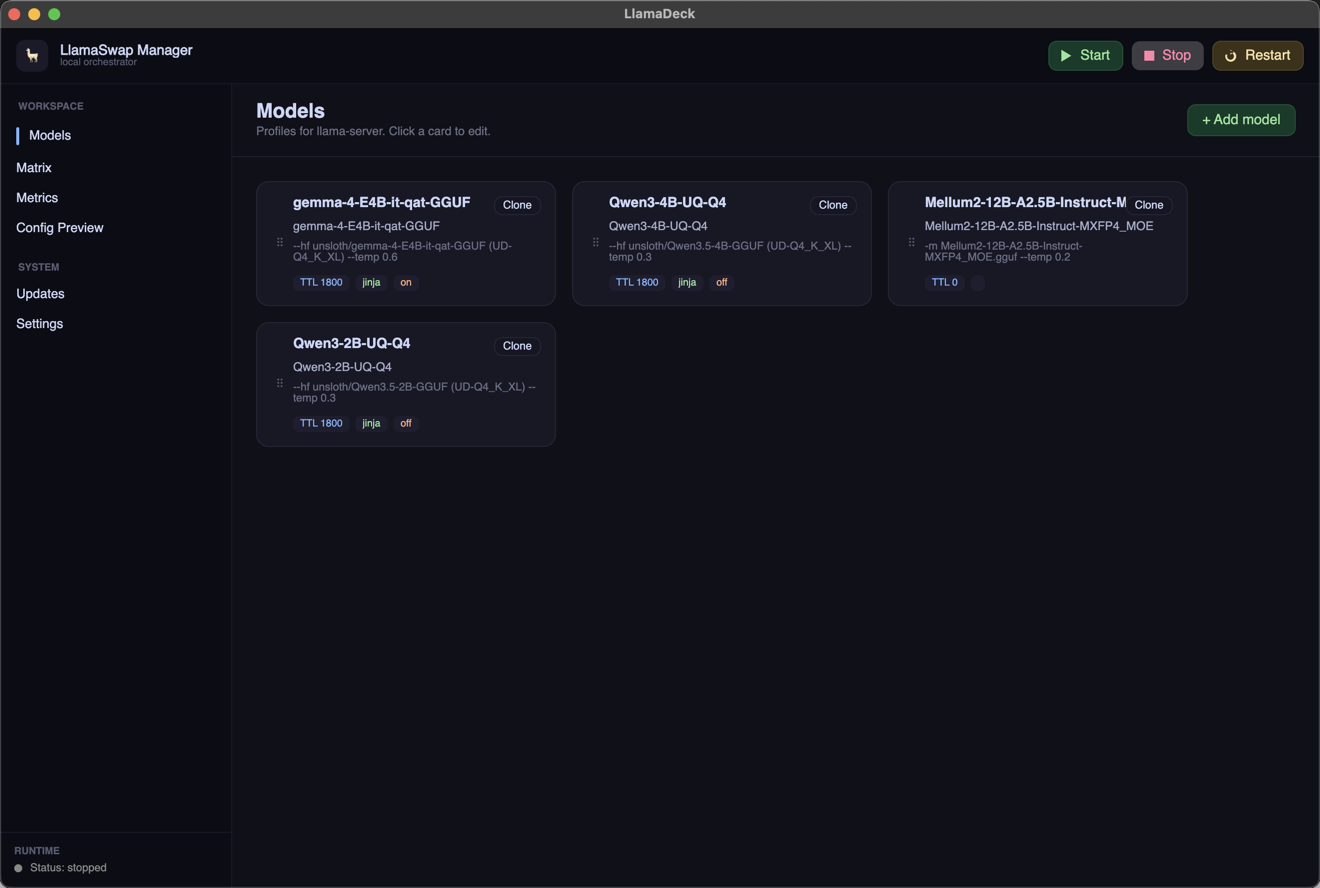
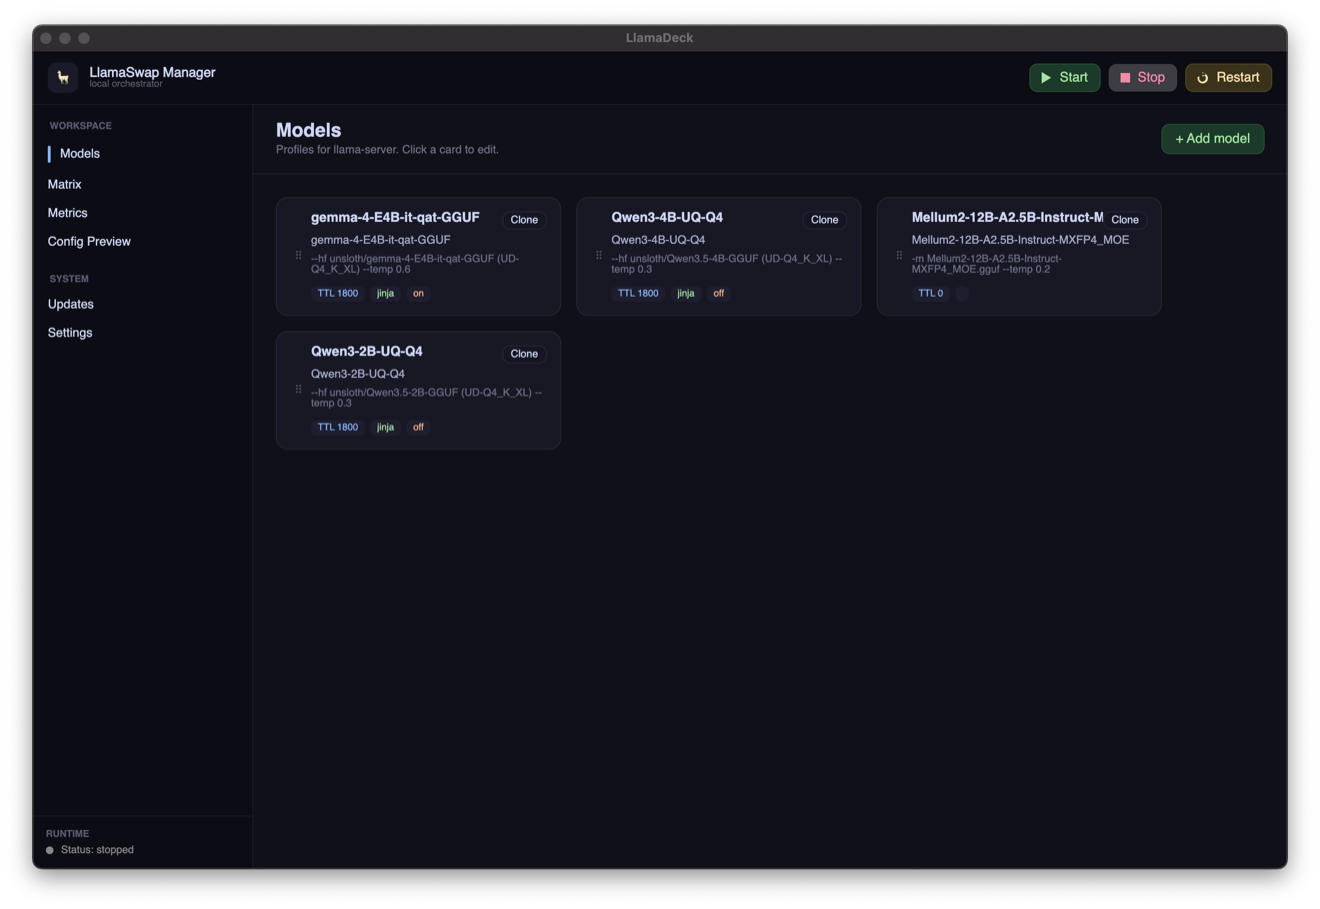
docs: replace README screenshots

diff --git a/README.md b/README.md
@@ -23,12 +23,6 @@ Define which models can remain loaded together and control their eviction order 
 
 ![LlamaDeck matrix editor](docs/images/llamadeck-matrix.png)
 
-## Configuration preview
-
-Review the final `llama-swap` configuration before writing it to disk.
-
-![LlamaDeck configuration preview](docs/images/llamadeck-config-preview.png)
-
 ## Requirements
 
 - .NET 9 SDK when building from source.